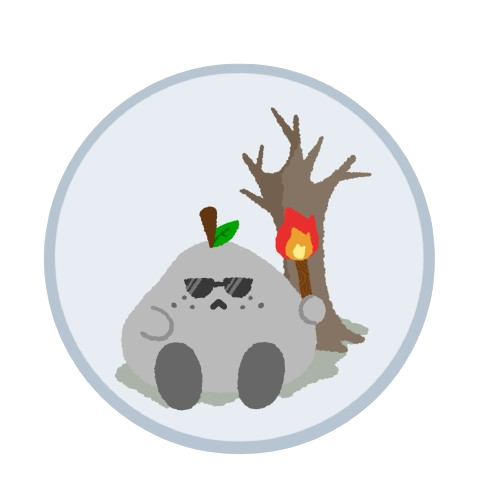
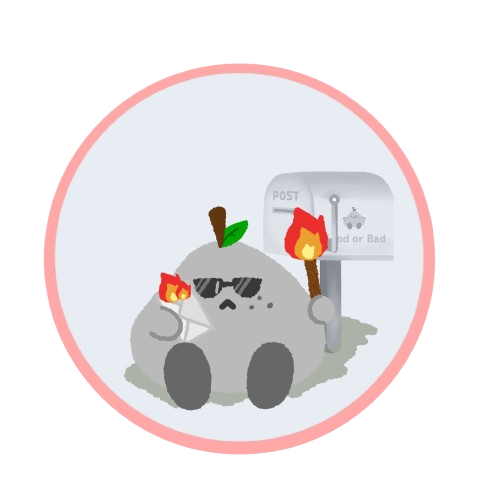
일기 기능

Changed region(s): [[0.09, 0.12, 0.87, 0.93]]

diff --git a/src/pages/GoodMemory.jsx b/src/pages/GoodMemory.jsx
@@ -1,13 +1,16 @@
 import React, { useState, useEffect } from 'react';
 import axios from 'axios';
-import { useParams } from 'react-router-dom';
+import { useParams, useNavigate } from 'react-router-dom';
 import { images } from '../images';
 
 export default function GoodMemory() {
     const { date } = useParams();
+    const navigate = useNavigate();
 
     const [content1, setContent1] = useState('');
     const [content2, setContent2] = useState('');
+    const [newContent1, setNewContent1] = useState('');
+    const [newContent2, setNewContent2] = useState('');
     const [isLoading, setIsLoading] = useState(true);
     const [error, setError] = useState(null);
 
@@ -31,8 +34,9 @@ export default function GoodMemory() {
                 if (response.status === 200 && response.data) {
                     setContent1(response.data.emotion || '');
                     setContent2(response.data.content || '');
+                    setNewContent1(response.data.emotion || '');
+                    setNewContent2(response.data.content || '');
                 } else {
-                    console.log(response.data)
                     setError('일기 데이터를 불러오지 못했습니다.');
                 }
             } catch (error) {
@@ -69,6 +73,57 @@ export default function GoodMemory() {
         }
     }, [error]);
 
+    const handleUpdate = async () => {
+        const token = localStorage.getItem('token');
+        if (!token) {
+            setError('토큰이 없습니다. 로그인 해주세요.');
+            return;
+        }
+
+        const payload = {
+            date: date,
+            newContent: newContent2,
+            newEmotion: newContent1,
+        };
+
+        try {
+            const response = await axios.put('https://team5back.sku-sku.com/api/diaries/update', payload, {
+                headers: {
+                    Authorization: `${token}`,
+                },
+            });
+
+            if (response.status === 200) {
+                setContent1(newContent1);
+                setContent2(newContent2);
+                alert('일기가 수정되었습니다.');
+                navigate('/');
+            } else {
+                setError('일기 수정 중 오류가 발생했습니다.');
+            }
+        } catch (error) {
+            if (error.response) {
+                const status = error.response.status;
+                if (status === 401) {
+                    const message = error.response.data.message;
+                    if (message.includes('서명 검증에 실패했습니다.')) {
+                        setError('토큰이 올바르지 않습니다. 로그인 해주세요.');
+                    } else if (message.includes('토큰이 만료되었습니다.')) {
+                        setError('토큰이 만료되었습니다. 로그인 해주세요.');
+                    } else {
+                        setError('인증 오류가 발생했습니다. 다시 로그인 해주세요.');
+                    }
+                } else if (status === 403) {
+                    setError('해당 날짜의 일기가 없습니다.');
+                } else {
+                    setError('일기 수정 중 오류가 발생했습니다.');
+                }
+            } else {
+                setError('일기 수정 중 오류가 발생했습니다.');
+            }
+        }
+    };
+
     if (isLoading) {
         return <div className='flex items-center justify-center'>로딩 중...</div>;
     }
@@ -99,9 +154,8 @@ export default function GoodMemory() {
                             <div className="input_box text_wrapper mx-[10%]">
                                 <textarea
                                     className="w-full rounded-lg bg-[#eef1f6]"
-                                    value={content1}
-                                    onChange={(e) => setContent1(e.target.value)}
-                                    readOnly
+                                    value={newContent1}
+                                    onChange={(e) => setNewContent1(e.target.value)}
                                     style={{
                                         whiteSpace: 'pre-wrap',
                                         lineHeight: '1.9',
@@ -124,13 +178,12 @@ export default function GoodMemory() {
                         <div className="absolute top-[15%] left-[37%] text-center font-bold text-[18px]">
                             오늘의 일기
                         </div>
-                        <img src={images.letter} alt='일기' className="w-[90%] mt-[10%] mr-[60px]" />
+                        <img src={images.diary} alt='diary' className="w-[90%] mt-[10%] mr-[60px]" />
                         <div className="absolute top-[20%] left-[20%] right-[5%] p-4">
                             <textarea
                                 className="w-[60%] rounded-lg bg-opacity-25"
-                                value={content2}
-                                onChange={(e) => setContent2(e.target.value)}
-                                readOnly
+                                value={newContent2}
+                                onChange={(e) => setNewContent2(e.target.value)}
                                 style={{
                                     whiteSpace: 'pre-wrap',
                                     lineHeight: '1.9',
@@ -144,6 +197,12 @@ export default function GoodMemory() {
                                 }}
                             />
                         </div>
+                        <button 
+                            onClick={handleUpdate} 
+                            className="absolute bottom-[10%] left-[30%] bg-[#CAD6E2] w-[40%] rounded-2xl shadow-md font-bold p-3"
+                        >
+                            수정하기
+                        </button>
                     </div>
                 </div>
             </div>

diff --git a/src/pages/Diary.jsx b/src/pages/Diary.jsx
@@ -1,13 +1,10 @@
-import React, { useState, useEffect, useRef } from 'react';
+import React, { useState, useEffect } from 'react';
 import axios from 'axios';
 import { useNavigate } from 'react-router-dom';
 import '../index.css'; // CSS 애니메이션 파일 임포트
 import { images } from '../images';
 
-
 export default function Diary() {
-    const contentRef1 = useRef();
-    const contentRef2 = useRef();
     const navigate = useNavigate();
 
     const [content1, setContent1] = useState('');
@@ -17,32 +14,27 @@ export default function Diary() {
     const [clickedButton, setClickedButton] = useState('');
     const [isDeleting, setIsDeleting] = useState(false);
 
-    // 날짜를 당일로 고정
+    // 현재 날짜를 설정하고 자정에 날짜가 바뀌도록 타이머 설정
     useEffect(() => {
-        const today = new Date().toISOString().split('T')[0];
-        setSelectedDate(today);
+        const updateDate = () => {
+            const now = new Date();
+            const koreaTime = new Date(now.setHours(now.getHours() + 9));
+            const today = koreaTime.toISOString().split('T')[0];
+            setSelectedDate(today);
+        };
+
+        updateDate(); // 컴포넌트가 마운트될 때 날짜 설정
+
+        const now = new Date();
+        const millisTillMidnight = new Date(now.getFullYear(), now.getMonth(), now.getDate() + 1, 0, 0, 0, 0) - now;
+
+        const timer = setTimeout(() => {
+            updateDate();
+            setInterval(updateDate, 24 * 60 * 60 * 1000); // 매일 자정마다 날짜 업데이트
+        }, millisTillMidnight);
+
+        return () => clearTimeout(timer); // 컴포넌트가 언마운트될 때 타이머 정리
     }, []);
-
-    useEffect(() => {
-        if (contentRef1.current) {
-            contentRef1.current.innerText = content1;
-        }
-    }, [content1]);
-
-    useEffect(() => {
-        if (contentRef2.current) {
-            contentRef2.current.innerText = content2;
-        }
-    }, [content2]);
-
-    const inputHandlers = {
-        handleInput1: (e) => {
-            setContent1(e.target.innerText);
-        },
-        handleInput2: (e) => {
-            setContent2(e.target.innerText);
-        }
-    };
 
     const handleMemoryChange = (e) => {
         if (e.target.alt === 'good') {
@@ -190,9 +182,7 @@ export default function Diary() {
                                 <textarea
                                     className="w-full rounded-lg bg-[#eef1f6]"
                                     value={content1}
-                                    ref={contentRef1}
                                     onChange={(e) => setContent1(e.target.value)}
-                                    onInput={inputHandlers.handleInput1}
                                     placeholder="오늘 하루 느꼈던 감정을 세세하게 적어주세요."
                                     style={{
                                         whiteSpace: 'pre-wrap',
@@ -222,14 +212,12 @@ export default function Diary() {
                         <div className="absolute top-[15%] left-[37%] text-center font-bold text-[18px]">
                             오늘의 일기
                         </div>
-                        <img src={images.letter} alt='일기' className="w-[90%] mt-[10%] mr-[60px]" />
+                        <img src={images.diary} alt='diary' className="w-[90%] mt-[10%] mr-[60px]" />
                         <div className="absolute top-[20%] left-[20%] right-[5%] p-4">
                             <textarea
                                 className="w-[60%] rounded-lg bg-opacity-25"
                                 value={content2}
-                                ref={contentRef2}
                                 onChange={(e) => setContent2(e.target.value)}
-                                onInput={inputHandlers.handleInput2}
                                 placeholder="오늘은 어떤 일이 있으셨나요?"
                                 style={{
                                     whiteSpace: 'pre-wrap',

diff --git a/src/pages/Home.jsx b/src/pages/Home.jsx
@@ -7,16 +7,16 @@ export default function Home() {
     const { isLoggedIn } = useContext(AuthContext);
 
     return (
-        <div className='flex flex-column flex-wrap justify-center h-[100%] w-[100%] m-3'>
+        <div className='flex flex-column flex-wrap justify-center h-[100%] w-[100%]'>
             {isLoggedIn ? (
                 <div className='flex flex-col items-center h-[100%] w-[100%] m-3'>
                     <div className='flex'>
-                        <img src={images.tree1} alt="tree" className='flex w-[1200px]' />
+                        <img src={images.postA} alt="postA" className='flex size-[70%] ml-[10%]' />
                     </div>
                     <div className='flex flex-column justify-around rounded-2xl bottom-[-12%] w-[30%] h-[fit] 
                         bg-white shadow-2xl'>
                         <div className='flex flex-row items-center m-1'>
-                            <img src={images.apple} alt="leaf" className='flex w-5 m-4' />
+                            <img src={images.letter} alt="letter" className='flex w-5 m-4' />
                             <div className='flex border-r-[3px] border-black h-4 mx-3'></div>
                             <div className='flex justify-center ml-3 font-semibold'>새로운 기억을 저장하세요 !</div>
                         </div>
@@ -30,18 +30,25 @@ export default function Home() {
                     </NavLink>
                 </div>
             ) : (
-                <div className='flex flex-column flex-wrap justify-center h-[100%] w-[100%] m-3'>
+                <div className='flex flex-col items-center h-[100%] w-[100%] m-3'>
                     <div className='flex'>
-                        <img src={images.tree1} alt="tree" className='flex w-[1200px]' />
+                        <img src={images.postB} alt="postB" className='flex size-[70%] ml-[10%]' />
                     </div>
-                    <div className='flex flex-column justify-around rounded-2xl bottom-[-12%] w-[30%] h-[fit]
+                    <div className='flex flex-column justify-around rounded-2xl bottom-[-12%] w-[30%] h-[fit] 
                         bg-white shadow-2xl'>
-                        <div className='flex items-center m-1'>
-                            <img src={images.leaf} alt="leaf" className='flex w-5 m-4' />
+                        <div className='flex flex-row items-center m-1'>
+                            <img src={images.letter} alt="letter" className='flex w-5 m-4' />
                             <div className='flex border-r-[3px] border-black h-4 mx-3'></div>
-                            <div className='flex justify-center ml-3 font-semibold'>새로운 기억을 저장하려면 로그인을 해주세요 !</div>
+                            <div className='flex justify-center ml-3 font-semibold'>새로운 기억을 저장하세요 !</div>
                         </div>
                     </div>
+                    <NavLink to='/diary' className='fixed flex bottom-11 right-11'>
+                        <div className='flex justify-center bg-[#C4D4E9] rounded-full w-[60px] h-[60px]'>
+                            <div className='flex items-center'>
+                                <img src={images.pen} alt="pen" className='flex size-7' />
+                            </div>
+                        </div>
+                    </NavLink>
                 </div>
             )}
         </div>

diff --git a/src/components/Header.jsx b/src/components/Header.jsx
@@ -36,10 +36,10 @@ export default function Header() {
                         </>
                     ) : (
                         <div className='flex flex-row text-black cursor-pointer'>
-                            <div onClick={handleLogout} className='flex flex-col'>
+                            <NavLink to='/' onClick={handleLogout} className='flex flex-col'>
                                 <TbLogout2 size={21} className='flex mx-auto' />
                                 <div>로그아웃</div>
-                            </div>
+                            </NavLink>
                             <NavLink to='/attendance' className={({ isActive }) => `flex flex-col ml-7 ${isActive ? 'text-[#709EE1]' : 'text-black'}`}>
                                 <FaRegCalendarCheck size={18} className='mx-auto' />
                                 <div>출석체크</div>

diff --git a/public/index.html b/public/index.html
@@ -2,7 +2,7 @@
 <html lang="en">
   <head>
     <meta charset="utf-8" />
-    <link rel="icon" href="%PUBLIC_URL%/favicon.ico" />
+    <link rel="icon" type="image/x-icon" href="img/favicon.ico" />
     <meta name="viewport" content="width=device-width, initial-scale=1" />
     <meta name="theme-color" content="#000000" />
     <meta
@@ -24,7 +24,7 @@
       work correctly both with client-side routing and a non-root public URL.
       Learn how to configure a non-root public URL by running `npm run build`.
     -->
-    <title>React App</title>
+    <title>Good or Bad</title>
   </head>
   <body>
     <noscript>You need to enable JavaScript to run this app.</noscript>

diff --git a/src/images.jsx b/src/images.jsx
@@ -7,13 +7,16 @@ export const images = {
     //home
     apple: PATH + '/img/apple.png',
     leaf: PATH + '/img/leaf.png',
-    tree1: PATH + '/img/tree1.png',
     pen: PATH + '/img/pen.png',
+    letter: PATH + '/img/letter.png',
+    postB: PATH + '/img/postB.png',
+    postA: PATH + '/img/postA.png',
+
 
     //diary
     bad: PATH + '/img/bad.png',
     good: PATH + '/img/good.png',
-    letter: PATH + '/img/letter.png',
+    diary: PATH + '/img/diary.png',
 
     //info
     jm: PATH + '/img/jm.png',

diff --git a/src/pages/Login.jsx b/src/pages/Login.jsx
@@ -40,7 +40,7 @@ export default function Login() {
             };
 
             try {
-                const response = await axios.post('https://team5back.sku-sku.com/session-login', payload, {
+                const response = await axios.post('https://team5back.sku-sku.com/api/session-login', payload, {
                     headers: {
                         'Content-Type': 'application/json',
                     },

diff --git a/src/pages/IdFind.jsx b/src/pages/IdFind.jsx
@@ -32,7 +32,7 @@ export default function IdFind() {
         if (!emailValid) return;
 
         try {
-            const response = await axios.post('https://team5back.sku-sku.com/find/userId', {
+            const response = await axios.post('https://team5back.sku-sku.com/api/find/userId', {
                 email,
                 name,
             }, {
